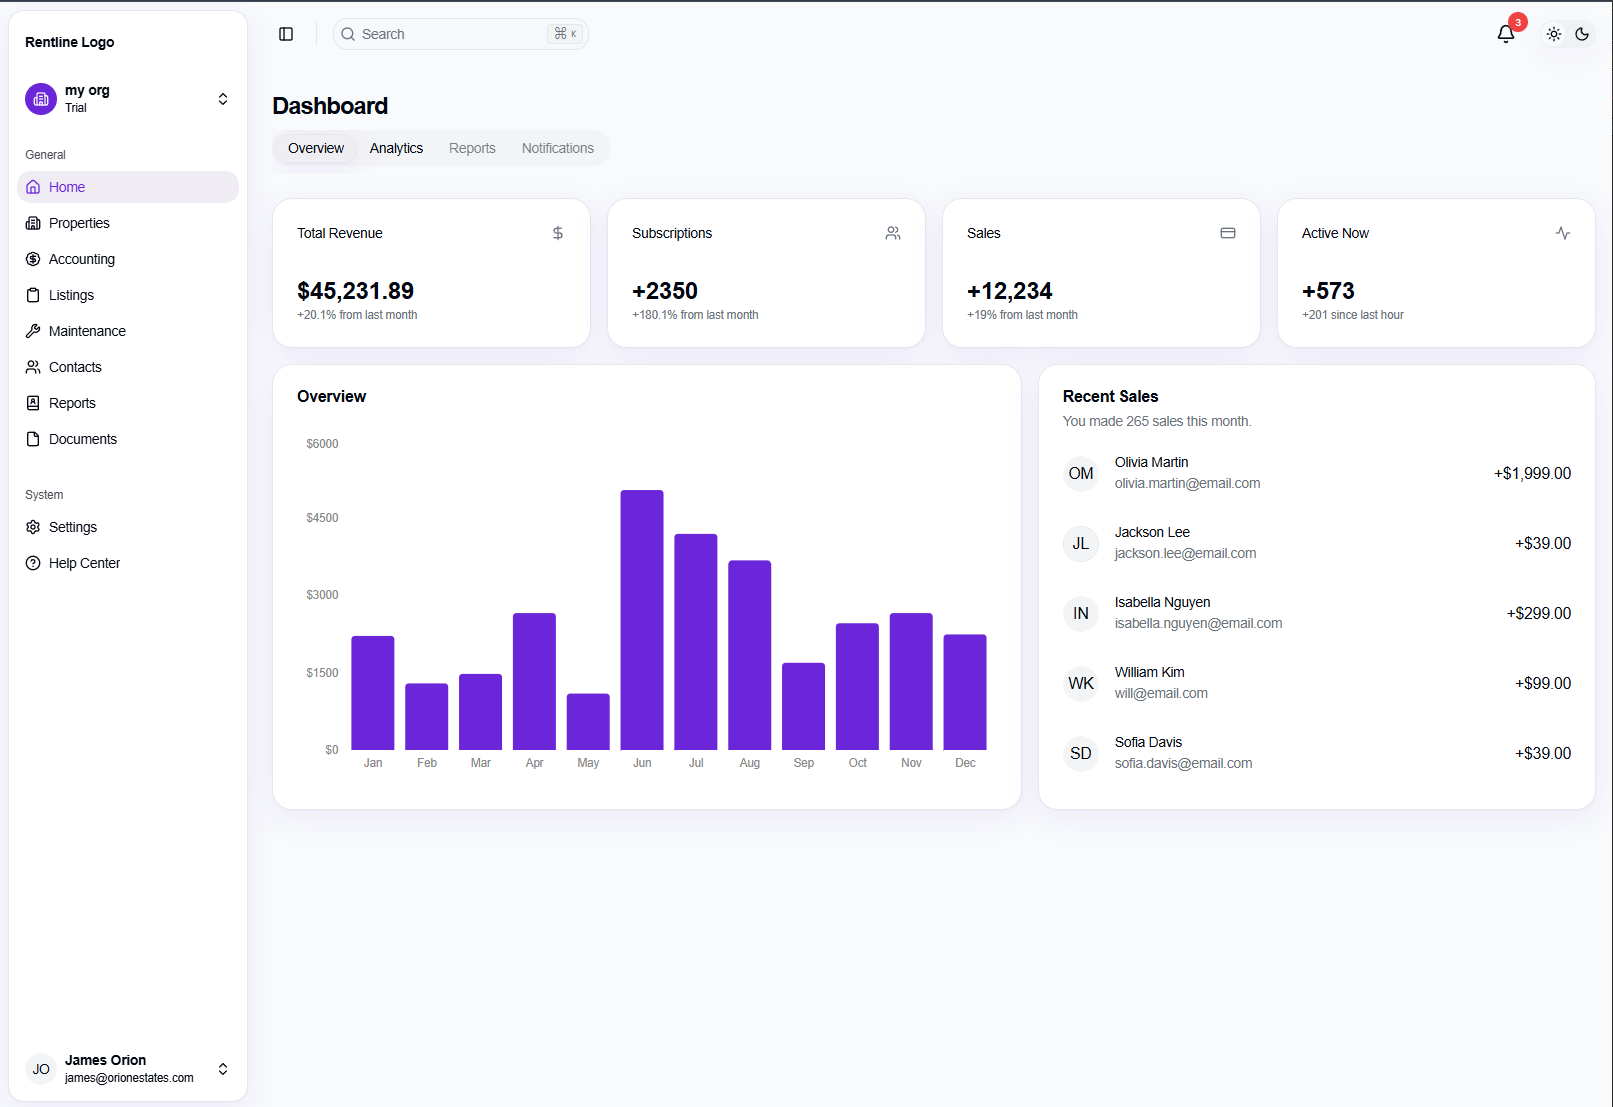
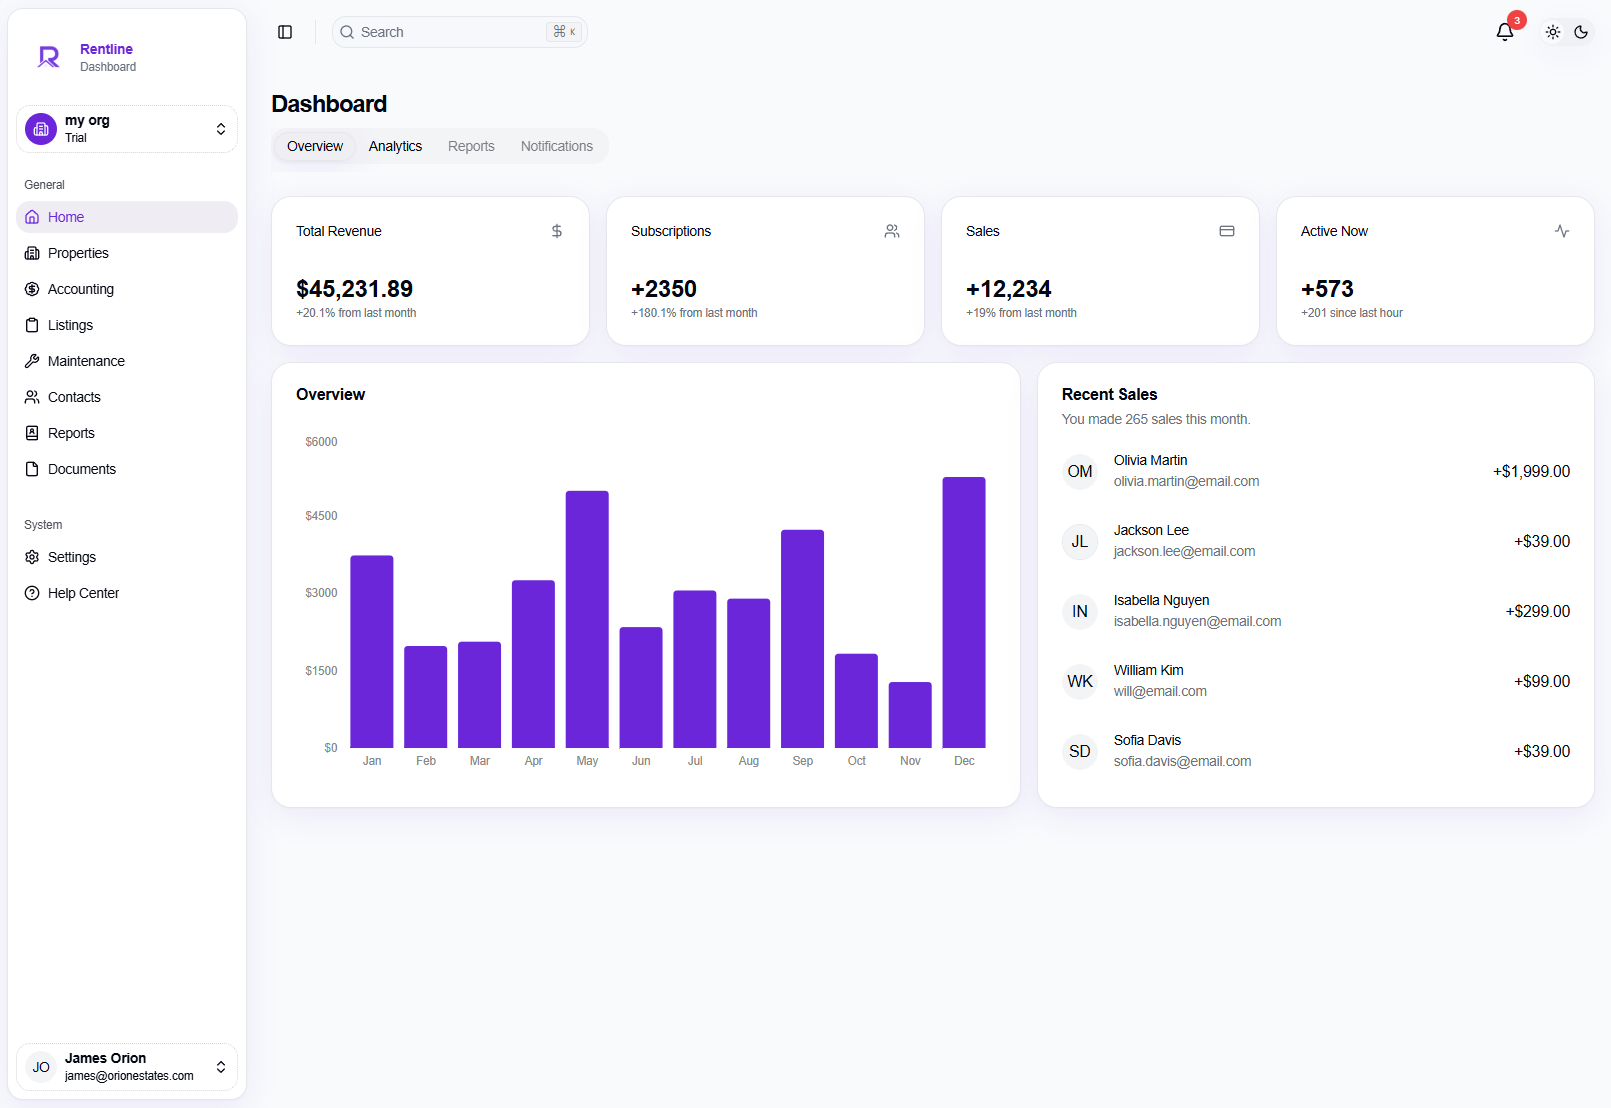
updated branding

diff --git a/src/features/auth/sign-up/index.tsx b/src/features/auth/sign-up/index.tsx
@@ -1,20 +1,19 @@
 import { Link } from '@tanstack/react-router'
-import { Logo } from '@/assets/logo'
+import { LogoFull } from '@/assets/logo-full'
 import { cn } from '@/lib/utils'
-import dashboardDark from './assets/dashboard-dark.png'
-import dashboardLight from './assets/dashboard-light.png'
+import { useTheme } from '@/context/theme-provider'
+import { Safari } from '@/components/ui/safari'
 import { SignUpForm } from './components/sign-up-form'
 
-// import { UserAuthForm } from './components/user-auth-form'
-
 export function SignUp() {
+  const { theme } = useTheme()
+
   return (
     <div className='relative container grid h-svh flex-col items-center justify-center lg:max-w-none lg:grid-cols-2 lg:px-0'>
       <div className='w-full lg:p-8'>
         <div className='mx-auto flex w-full flex-col justify-center space-y-2 py-8 sm:w-120 sm:p-8'>
           <div className='mb-4 flex items-center justify-center'>
-            <Logo className='me-2' />
-            <h1 className='text-3xl font-medium'>Rentline</h1>
+            <LogoFull className='me-2' />
           </div>
         </div>
         <div className='mx-auto flex w-full max-w-md flex-col justify-center space-y-2'>
@@ -57,22 +56,13 @@ export function SignUp() {
       <div
         className={cn(
           'relative h-full overflow-hidden bg-muted max-lg:hidden',
-          '[&>img]:absolute [&>img]:top-[15%] [&>img]:left-20 [&>img]:h-full [&>img]:w-full [&>img]:object-cover [&>img]:object-top-left [&>img]:select-none'
+          '*:absolute *:top-[15%] *:left-20 *:w-[120%] *:max-w-none *:select-none'
         )}
       >
-        <img
-          src={dashboardLight}
-          className='dark:hidden'
-          width={1024}
-          height={1151}
-          alt='Shadcn-Admin'
-        />
-        <img
-          src={dashboardDark}
-          className='hidden dark:block'
-          width={1024}
-          height={1138}
-          alt='Shadcn-Admin'
+        <Safari
+          mode='simple'
+          url='app.rentline.io'
+          imageSrc={`/images/dashboard_${theme === 'light' ? 'light' : 'dark'}.png`}
         />
       </div>
     </div>

diff --git a/index.html b/index.html
@@ -42,10 +42,10 @@
       content="property management, landlord tools, tenant portal, rent collection, maintenance tracking"
     />
     <meta name="robots" content="index, follow" />
-    <link rel="canonical" href="https://rentline-frontend.onrender.com/" />
+    <link rel="canonical" href="https://app.rentline.io" />
 
     <meta property="og:type" content="website" />
-    <meta property="og:url" content="https://rentline-frontend.onrender.com/" />
+    <meta property="og:url" content="https://app.rentline.io" />
     <meta
       property="og:title"
       content="Rentline | Simplify Your Property Management"
@@ -56,17 +56,14 @@
     />
     <meta
       property="og:image"
-      content="https://rentline-frontend.onrender.com/images/dashboard_link_preview.png"
+      content="https://app.rentline.io/images/dashboard_link_preview.png"
     />
     <meta property="og:image:width" content="1200" />
     <meta property="og:image:height" content="630" />
     <meta property="og:image:type" content="image/png" />
 
     <meta property="twitter:card" content="summary_large_image" />
-    <meta
-      property="twitter:url"
-      content="https://rentline-frontend.onrender.com/"
-    />
+    <meta property="twitter:url" content="https://app.rentline.io" />
     <meta
       property="twitter:title"
       content="Rentline | Modern Property Management"
@@ -77,7 +74,7 @@
     />
     <meta
       property="twitter:image"
-      content="https://rentline-frontend.onrender.com/images/dashboard_link_preview.png"
+      content="https://app.rentline.io/images/dashboard_link_preview.png"
     />
 
     <link rel="preconnect" href="https://fonts.googleapis.com" />

diff --git a/src/features/auth/sign-in/sign-in-2.tsx b/src/features/auth/sign-in/sign-in-2.tsx
@@ -1,10 +1,12 @@
 import { Link } from '@tanstack/react-router'
 import { LogoFull } from '@/assets/logo-full'
 import { cn } from '@/lib/utils'
+import { useTheme } from '@/context/theme-provider'
 import { Safari } from '@/components/ui/safari'
 import { UserAuthForm } from './components/user-auth-form'
 
 export function SignIn2() {
+  const { theme } = useTheme()
   return (
     <div className='relative container grid h-svh flex-col items-start justify-center lg:max-w-none lg:grid-cols-2 lg:px-0'>
       <div className='lg:px-8 lg:pt-20 lg:pb-8'>
@@ -52,29 +54,14 @@ export function SignIn2() {
       <div
         className={cn(
           'relative h-full overflow-hidden bg-muted max-lg:hidden',
-          '[&>*]:absolute [&>*]:top-[15%] [&>*]:left-20 [&>*]:w-[120%] [&>*]:max-w-none [&>*]:select-none'
+          '*:absolute *:top-[15%] *:left-20 *:w-[120%] *:max-w-none *:select-none'
         )}
       >
         <Safari
-          className='dark:hidden'
           mode='simple'
           url='app.rentline.io'
-          imageSrc='/images/dashboard_light.png'
+          imageSrc={`/images/dashboard_${theme === 'light' ? 'light' : 'dark'}.png`}
         />
-        {/* <img
-          src={dashboardLight}
-          className='dark:hidden'
-          width={1024}
-          height={1151}
-          alt='Rentline Platform'
-        />
-        <img
-          src={dashboardDark}
-          className='hidden dark:block'
-          width={1024}
-          height={1138}
-          alt='Rentline Platform'
-        /> */}
       </div>
     </div>
   )
